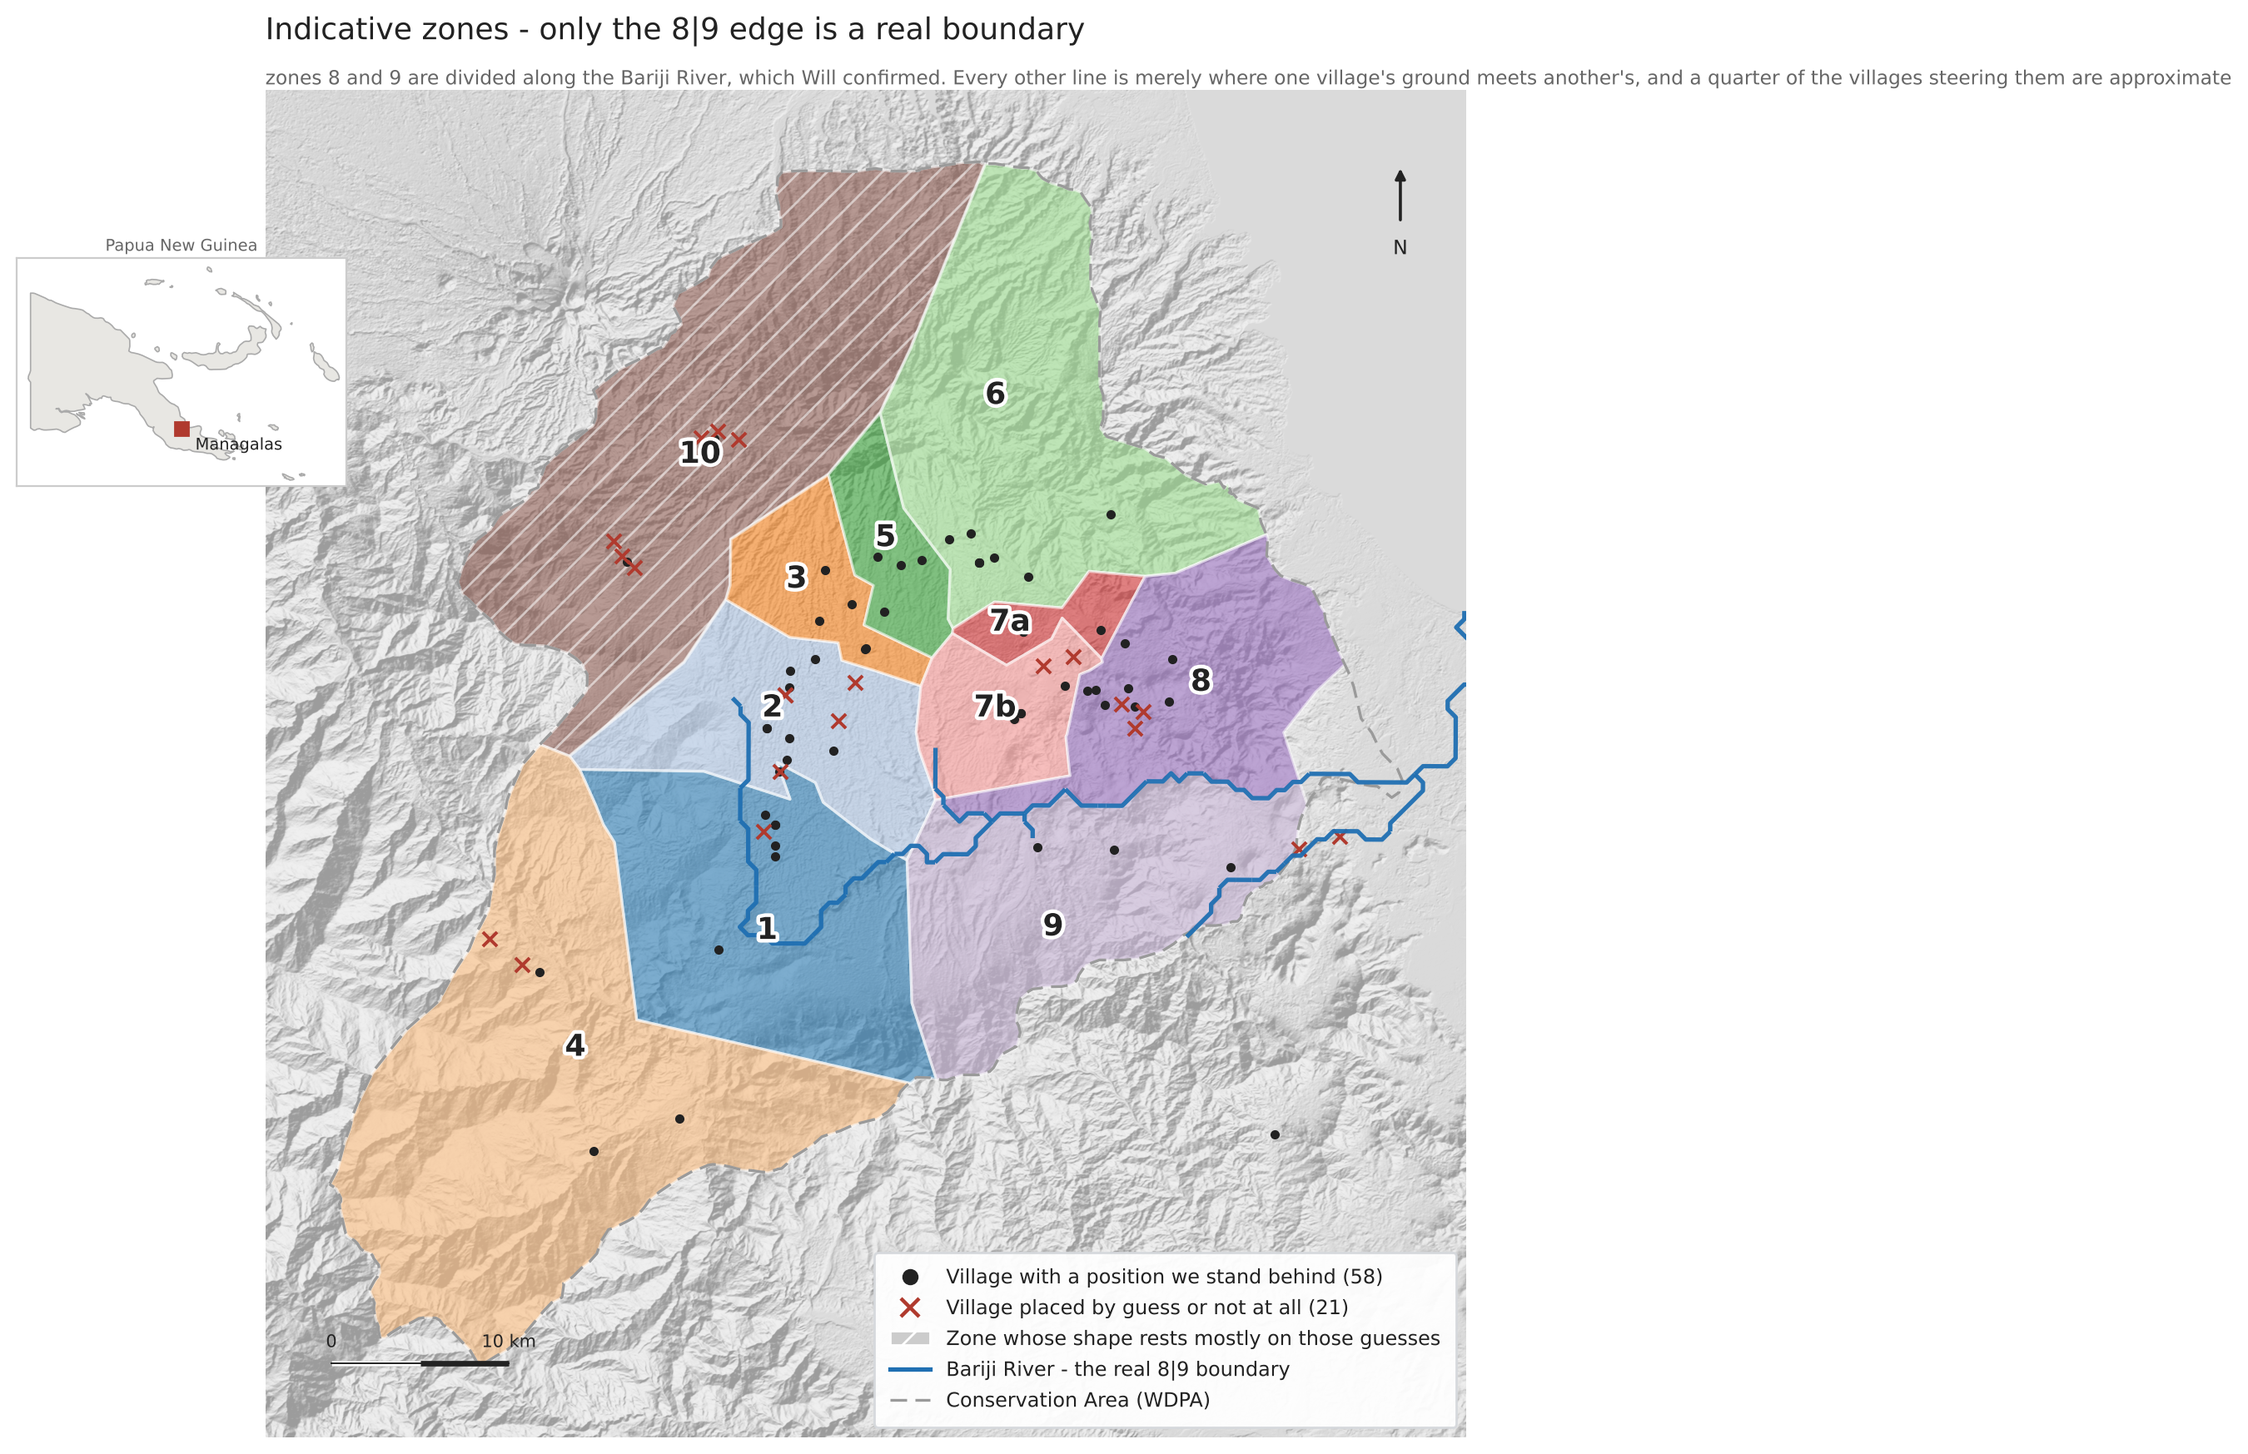
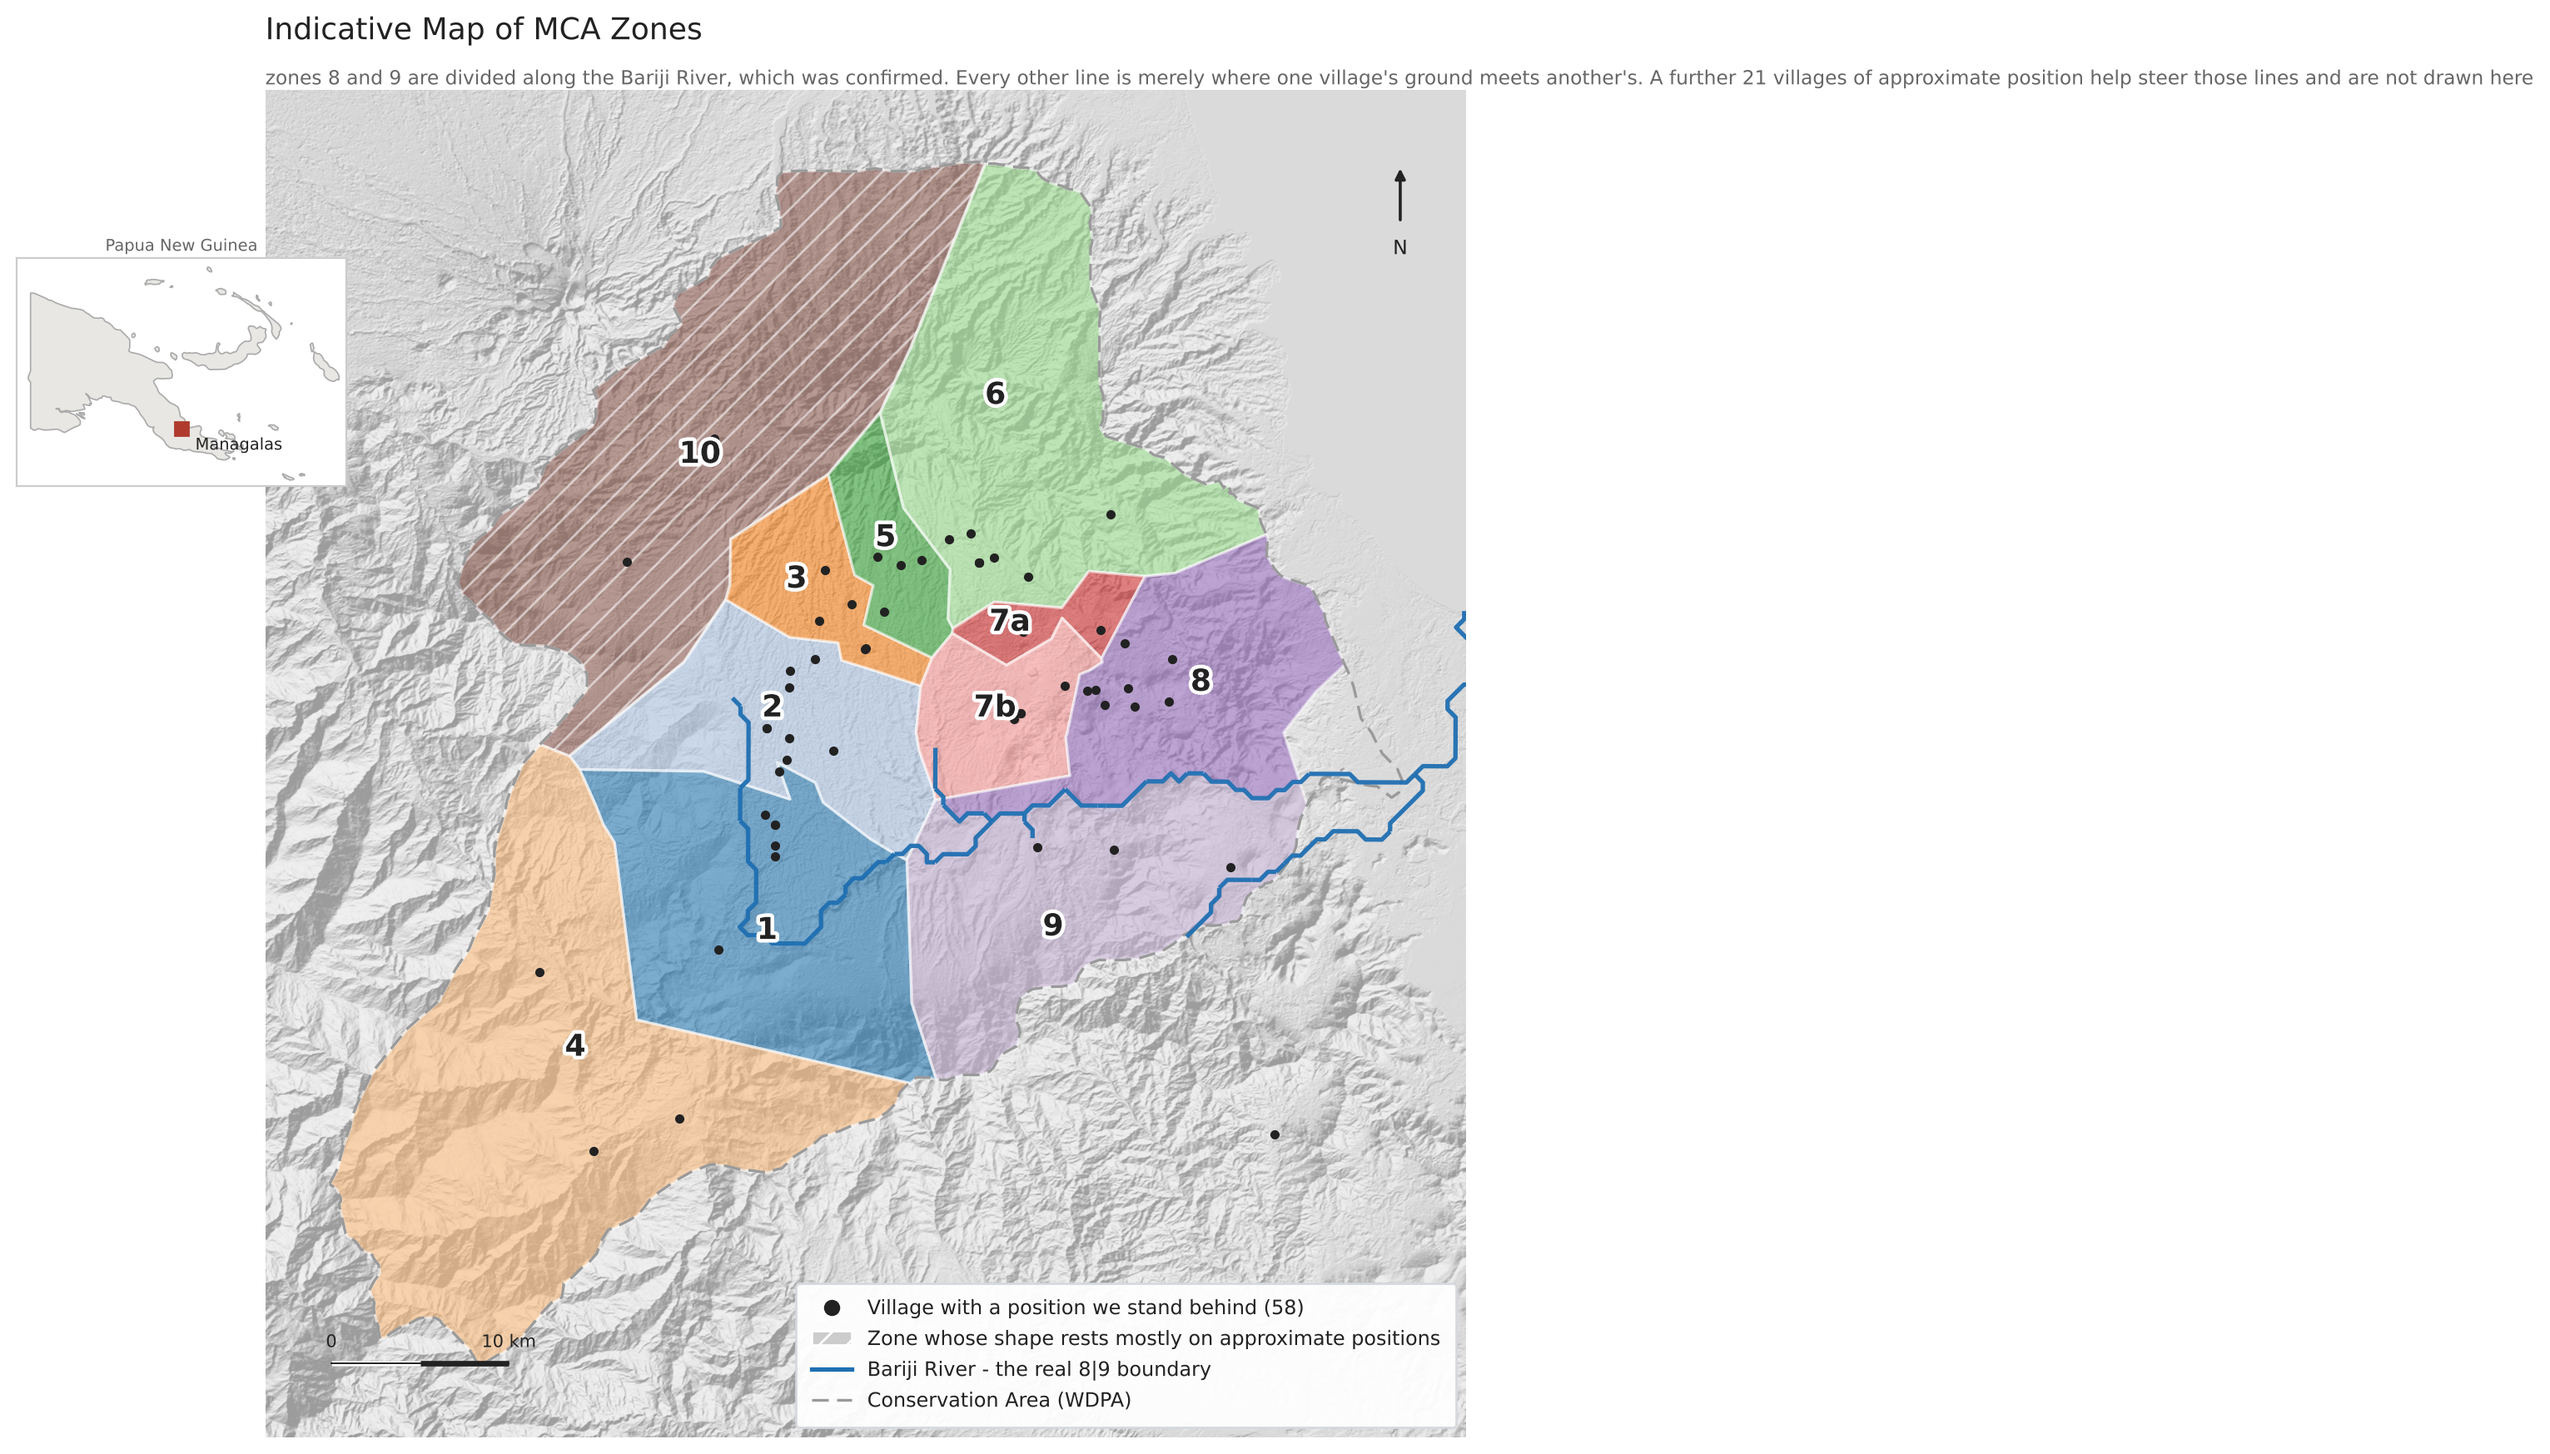
Title the zone map as indicative and stop drawing the approximate positions
Will, 24 Oct 2026: "I want a map that is titled Indicative Map of MCA Zones.
Remove the X. The points for the larger villages of Gora and Gorabuna are
there. The Xs are the hamlets within Gorabuna, Gora, etc."

He is right about what the crosses were. A red X beside Gora read as a fourth
settlement sitting next to it, when it is one of Gora's own hamlets and Gora
already has its dot. Same for the Gorobuna outliers. The mark was answering a
question nobody asked - how good is this position - in a way that invented
places.

The 21 approximate positions still SEED the tessellation. They are what gives
zone 10 its 399 km2, so dropping them from the maths would undo yesterday's
work. They are simply not drawn. Their influence stays on the map in the
hatching, and the subtitle now counts them out loud instead of pinning them:
"A further 21 villages of approximate position help steer those lines and are
not drawn here".

Nothing is hidden by this. The title says indicative, the subtitle says which
single edge is real, the hatching says which zones rest on guesses, and zone
10 is still 96 % hatched.

Claude-Session: https://claude.ai/code/session_01MccBSyiqvhYzrwXhxPb7TF

Changed region(s): [[0.0, 0.0, 0.9956, 0.9891]]

diff --git a/scripts/make_zone_voronoi.py b/scripts/make_zone_voronoi.py
@@ -288,8 +288,12 @@ def draw(zones, pts, boundary):
     good = pts[pts["quality"].isin(["known", "field"])]
     weak = pts[pts["quality"].isin(["indicative", "none"])]
     good.plot(ax=ax, color=INK, markersize=9, zorder=6)
-    weak.plot(ax=ax, color="#B03A2E", marker="x", markersize=38, linewidth=1.4,
-              zorder=7)
+    # The approximate positions still SEED the tessellation - they are what
+    # gives zone 10 its ground - but they are not drawn. Most of them are
+    # hamlets of a village that already has a dot on this map: Gora's three
+    # hamlets, Gorobuna's outliers. A cross beside Gora read as a fourth
+    # settlement next to it rather than as part of it. Their influence stays
+    # visible in the hatching and is counted in the subtitle instead.
 
     for _, r in zones.iterrows():
         c = r.geometry.representative_point()
@@ -303,10 +307,8 @@ def draw(zones, pts, boundary):
     ax.legend(handles=[
         Line2D([], [], marker="o", ls="none", color=INK, ms=6,
                label=f"Village with a position we stand behind ({len(good)})"),
-        Line2D([], [], marker="x", ls="none", color="#B03A2E", ms=8, mew=1.6,
-               label=f"Village placed by guess or not at all ({len(weak)})"),
         Patch(facecolor="#CCCCCC", edgecolor="#FFFFFF", hatch="//",
-              label="Zone whose shape rests mostly on those guesses"),
+              label="Zone whose shape rests mostly on approximate positions"),
         Line2D([], [], color="#1F6FB2", lw=1.9,
                label="Bariji River - the real 8|9 boundary"),
         Line2D([], [], color=BOUNDARY_EDGE, lw=1.2, linestyle=(0, (6, 3)),
@@ -314,12 +316,13 @@ def draw(zones, pts, boundary):
     ], loc="lower right", frameon=True, framealpha=0.95, fontsize=8.6,
         borderpad=0.8, labelspacing=0.55, edgecolor="#D5D8DC").set_zorder(10)
 
-    ax.set_title("Indicative zones - only the 8|9 edge is a real boundary",
+    ax.set_title("Indicative Map of MCA Zones",
                  fontsize=13, color=INK, pad=12, loc="left")
-    ax.annotate("zones 8 and 9 are divided along the Bariji River, which Will "
-                "confirmed. Every other line is merely where one village's "
-                "ground meets another's, and a quarter of the villages "
-                "steering them are approximate",
+    ax.annotate(f"zones 8 and 9 are divided along the Bariji River, which was "
+                f"confirmed. Every other line is merely where one village's "
+                f"ground meets another's. A further {len(weak)} villages of "
+                f"approximate position help steer those lines and are not "
+                f"drawn here",
                 xy=(0.0, 1.004), xycoords="axes fraction", fontsize=8.4,
                 color=INK_SOFT)
     north_arrow(ax); scalebar(ax); inset(fig, boundary)
